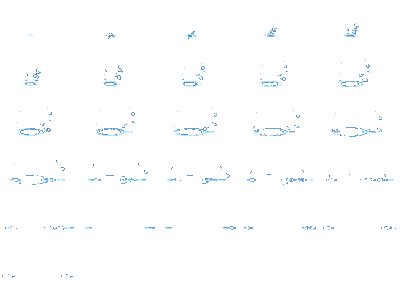
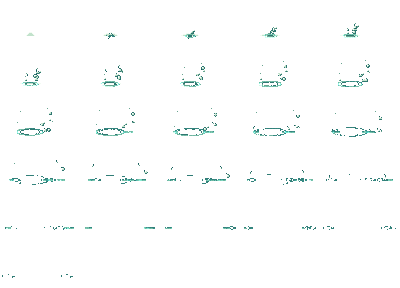
River slower and in the town's greens (pixelfx loop 12 s), splashes recoloured; big tree rays measured from its sprite: only from the canopy edges into the air under it, masked off the tree
Claude-Session: https://claude.ai/code/session_01FzDataYedfiK9tzFLcKdoU

diff --git a/tools/pixelfx_fx/town-bigtree-rays.js b/tools/pixelfx_fx/town-bigtree-rays.js
@@ -4,14 +4,14 @@ import { fit, clamp, rand, mix, TAU, WHITE } from "../../core/index.js";
 import { clip, rows } from "./_lib.js";
 
 export const meta = {
-  name: "Town canopy rays",
-  desc: "Sun through gaps in a canopy: crisp slanting shafts, banded and threaded with strands, landing as bright dapples; motes flash in them.",
+  name: "Town big tree rays",
+  desc: "Sun past the big town tree's canopy edges (gaps measured from its sprite): crisp banded shafts with strands, dapples on the ground, motes.",
   tags: ["weather", "god rays", "light", "sunbeam", "canopy", "tree", "dapple", "dust", "ambient", "loop"],
-  size: [360, 230],
-  origin: [180, 216],
+  size: [718, 513],
+  origin: [0, 501],
   duration: 6,
   loop: true,
-  fps: 12,
+  fps: 8,
   bg: "light",
   options: {
     palette: ["#4a3410", "#8a6a2c", "#d4a94e", "#f4d886", "#fff4cc", "#ffffff"],
@@ -19,18 +19,19 @@ export const meta = {
   },
 };
 
-const D = 6, W = 360, X0 = -180;
+const D = 6, W = 718, X0 = 0;
 // the sun high on the left: shafts lean down to the right by this slope (dx per dy)
 const SL = 0.32;
 // gaps in the canopy: x where a shaft leaves the leaves (at y = top), half width, strength, breathing cycles
+// measured from assets/town/hx/f_bigtree_leaf+trunk (tools/bake_town_fx.py rays): canopy-bottom points with clear air
+// along the slant to the ground; x from the sprite's left, top up from the ground line
 const GAPS = [
-  { x: -132, top: -150, h: 6, k: 0.8, b: 1 },
-  { x: -96, top: -176, h: 4, k: 0.6, b: 2 },
-  { x: -56, top: -160, h: 9, k: 1.1, b: 1 },
-  { x: -18, top: -184, h: 3, k: 0.6, b: 3 },
-  { x: 18, top: -158, h: 7, k: 0.95, b: 2 },
-  { x: 58, top: -174, h: 5, k: 0.75, b: 1 },
-  { x: 96, top: -150, h: 3, k: 0.55, b: 2 },
+  { x: 30, top: -114, h: 4, k: 0.8, b: 1 },
+  { x: 92, top: -96, h: 6, k: 1.0, b: 2 },
+  { x: 146, top: -112, h: 3, k: 0.7, b: 1 },
+  { x: 560, top: -97, h: 5, k: 0.95, b: 2 },
+  { x: 622, top: -97, h: 3.5, k: 0.75, b: 1 },
+  { x: 690, top: -140, h: 4.5, k: 0.9, b: 3 },
 ];
 const STR = new Float32Array(720);
 
@@ -63,7 +64,7 @@ export function drawBack(p, t, o) {
   const q = clip(p, meta), S = o.seed, C = fit(o.palette, 6);
   const G = gaps(t, S);
   const L = C.map((c) => mix(C[0], c, 0.8));
-  rows(p, meta, -200, 12, (y, R) => {
+  rows(p, meta, -150, 12, (y, R) => {
     const floor = y > 0;
     for (let i = 0; i < W; i++) {
       const x = X0 + i + 0.5;
@@ -93,8 +94,8 @@ export function draw(p, t, o) {
 function motes(q, t, S, C, G, front) {
   for (let i = front ? 0 : 40; i < (front ? 40 : 110); i++) {
     const R = (k) => rand(S, i, k), n1 = 1 + Math.floor(R(1) * 2), n2 = 1 + Math.floor(R(2) * 2);
-    const x = -170 + R(3) * 330 + (6 + R(4) * 10) * Math.sin((TAU * n1 * t) / D + R(5) * TAU);
-    const y = -180 + R(6) * 176 + (5 + R(7) * 8) * Math.sin((TAU * n2 * t) / D + R(8) * TAU);
+    const x = R(3) < 0.5 ? 10 + R(3) * 360 : 500 + R(3) * 200 + (6 + R(4) * 10) * Math.sin((TAU * n1 * t) / D + R(5) * TAU);
+    const y = -130 + R(6) * 126 + (5 + R(7) * 8) * Math.sin((TAU * n2 * t) / D + R(8) * TAU);
     const e = lightAt(x, y, G);
     if (e < 0.15) continue;
     const k = Math.min(1, e);

diff --git a/tools/pixelfx_fx/town-river.js b/tools/pixelfx_fx/town-river.js
@@ -7,12 +7,13 @@ export const meta = {
   tags: ["water", "river", "stream", "surface", "flow", "ambient", "loop", "tile"],
   size: [240, 96],
   origin: [0, 0],
-  duration: 4,
+  duration: 12,
   loop: true,
-  fps: 15,
+  fps: 10,
   bg: "ground",
   options: {
-    palette: ["#16304a", "#1d3d5e", "#264f78", "#3f6f9e", "#5f93c4", "#9fc7e6", "#e3f4ff"],
+    // the town's own greens: the deep water takes the forest's teal, the surface the sage of the sky it mirrors
+    palette: ["#05222b", "#08333d", "#0e4549", "#195a5b", "#2f7771", "#6aa591", "#c2e2cc"],
     seed: 3,
   },
 };
@@ -24,7 +25,7 @@ export function drawBack(p, t, o) {
   // the flow: everything scrolls downstream (right) by exactly one tile per loop near the top, slower deeper down
   p.shade(0, 0, W, H, (x, y, out) => {
     const yy = Math.floor(y), xx = Math.floor(x);
-    const sp = yy < 6 ? 2 : 1;                          // tiles per loop: the surface runs faster
+    const sp = yy < 14 ? 1 : 0;                         // tiles per loop: the surface drifts, the deep water holds
     const u = wrap(xx - ph * W * sp, W);
     const n = (tileFbm(u / 30, yy / 9, W / 30, 0, S, 3) + 1) / 2;
     // depth: hard ramp steps, the steps wobbling with the noise so they are not ruler lines
@@ -38,7 +39,9 @@ export function drawBack(p, t, o) {
       const s = (tileFbm(u / 18, yy / 2.2, W / 18, 0, S + 7, 2) + 1) / 2;
       if (s > 0.72 - yy * 0.004) lv = Math.min(6, lv + (yy < 10 ? 2 : 1));
     }
-    out.k = lv >= 5 ? 0.12 : 0;
+    // the banks shade the water along both edges
+    if (xx < 3 || xx > W - 4) lv = Math.max(0, lv - 1);
+    out.k = lv >= 5 ? 0.08 : 0;
     return C[lv];
   });
 }
@@ -48,9 +51,9 @@ export function draw(p, t, o) {
   // glints: single pixels that wink on the swell crests, each on its own whole-number blink rate
   for (let i = 0; i < 26; i++) {
     const R = (k) => rand(S, i, k);
-    const y = Math.floor(R(1) ** 2 * 22) + 1, sp = y < 6 ? 2 : 1;
+    const y = Math.floor(R(1) ** 2 * 12) + 1, sp = 1;
     const x = Math.floor(wrap(R(2) * W + ph * W * sp, W));
-    const b = Math.sin(TAU * (ph * (1 + Math.floor(R(3) * 3)) + R(4)));
+    const b = Math.sin(TAU * (ph * (3 + Math.floor(R(3) * 4)) + R(4)));
     if (b < 0.55) continue;
     p.px(x + 0.5, y + 0.5, C[6]);
     if (b > 0.85) { p.px(x - 0.5, y + 0.5, C[5]); p.px(x + 1.5, y + 0.5, C[5]); }

diff --git a/tools/pixelfx_fx/town-wade.js b/tools/pixelfx_fx/town-wade.js
@@ -12,7 +12,7 @@ export const meta = {
   loop: false,
   fps: 30,
   bg: "ground",
-  options: { palette: ["#16304a", "#1d3d5e", "#264f78", "#3f6f9e", "#5f93c4", "#9fc7e6", "#e3f4ff", "#ffffff"], seed: 4 },
+  options: { palette: ["#05222b", "#08333d", "#0e4549", "#195a5b", "#2f7771", "#6aa591", "#c2e2cc", "#f2fbf2"], seed: 4 },
 };
 
 const G = 520, SY = 0.25, N = 11;

diff --git a/tools/bake_town_fx.py b/tools/bake_town_fx.py
@@ -31,7 +31,7 @@ def forge(furnace):
         sheet.paste(Image.fromarray(arr), ((i % 10) * W, (i // 10) * H))
     sheet.save("assets/fx/town/forge_fire.png")
 
-if __name__ == "__main__" and len(sys.argv) > 1 and sys.argv[1] != "rim":
+if __name__ == "__main__" and len(sys.argv) > 1 and sys.argv[1] not in ("rim", "rays"):
     forge(sys.argv[1])
 
 
@@ -67,3 +67,32 @@ def rim(k):
 
 if __name__ == "__main__" and len(sys.argv) > 1 and sys.argv[1] == "rim":
     for k in RIM_KEYS: rim(k)
+
+
+# ---------- the big tree's sun rays (pixelfx weather/town-bigtree-rays, tools/pixelfx_fx/town-bigtree-rays.js) ----------
+# 48 frames 718x513 (the tree's hx sprite plus 12 rows of ground under it), cols 6. Kept only where the tree is not
+# (rays in the air under the canopy and the dapples), cropped to what is lit -> assets/fx/town/tree_rays.png + .json
+def rays(sheet):
+    import json
+    L = np.array(Image.open("assets/town/hx/f_bigtree_leaf.png").convert("RGBA"))[..., 3] > 127
+    T = np.array(Image.open("assets/town/hx/f_bigtree_trunk.png").convert("RGBA"))[..., 3] > 127
+    air = np.ones((513, 718), bool)
+    air[:501] = ~(L | T)
+    fr = frames(sheet, 718, 513, 6, 48)
+    arrs = []
+    for f in fr:
+        a = np.array(f)
+        a[..., 3] = (a[..., 3] * air).astype(np.uint8)
+        arrs.append(a)
+    tot = np.max([a[..., 3] for a in arrs], axis=0) > 0
+    ys, xs = np.nonzero(tot)
+    x0, x1, y0, y1 = xs.min(), xs.max() + 1, ys.min(), ys.max() + 1
+    W, H = int(x1 - x0), int(y1 - y0)
+    sheet_o = Image.new("RGBA", (W * 6, H * 8))
+    for i, a in enumerate(arrs):
+        sheet_o.paste(Image.fromarray(a[y0:y1, x0:x1]), ((i % 6) * W, (i // 6) * H))
+    sheet_o.save("assets/fx/town/tree_rays.png")
+    json.dump({"x": int(x0), "y": int(y0) - 501, "w": W, "h": H, "cols": 6, "n": 48, "fps": 8}, open("assets/fx/town/tree_rays.json", "w"))
+
+if __name__ == "__main__" and len(sys.argv) > 2 and sys.argv[1] == "rays":
+    rays(sys.argv[2])
